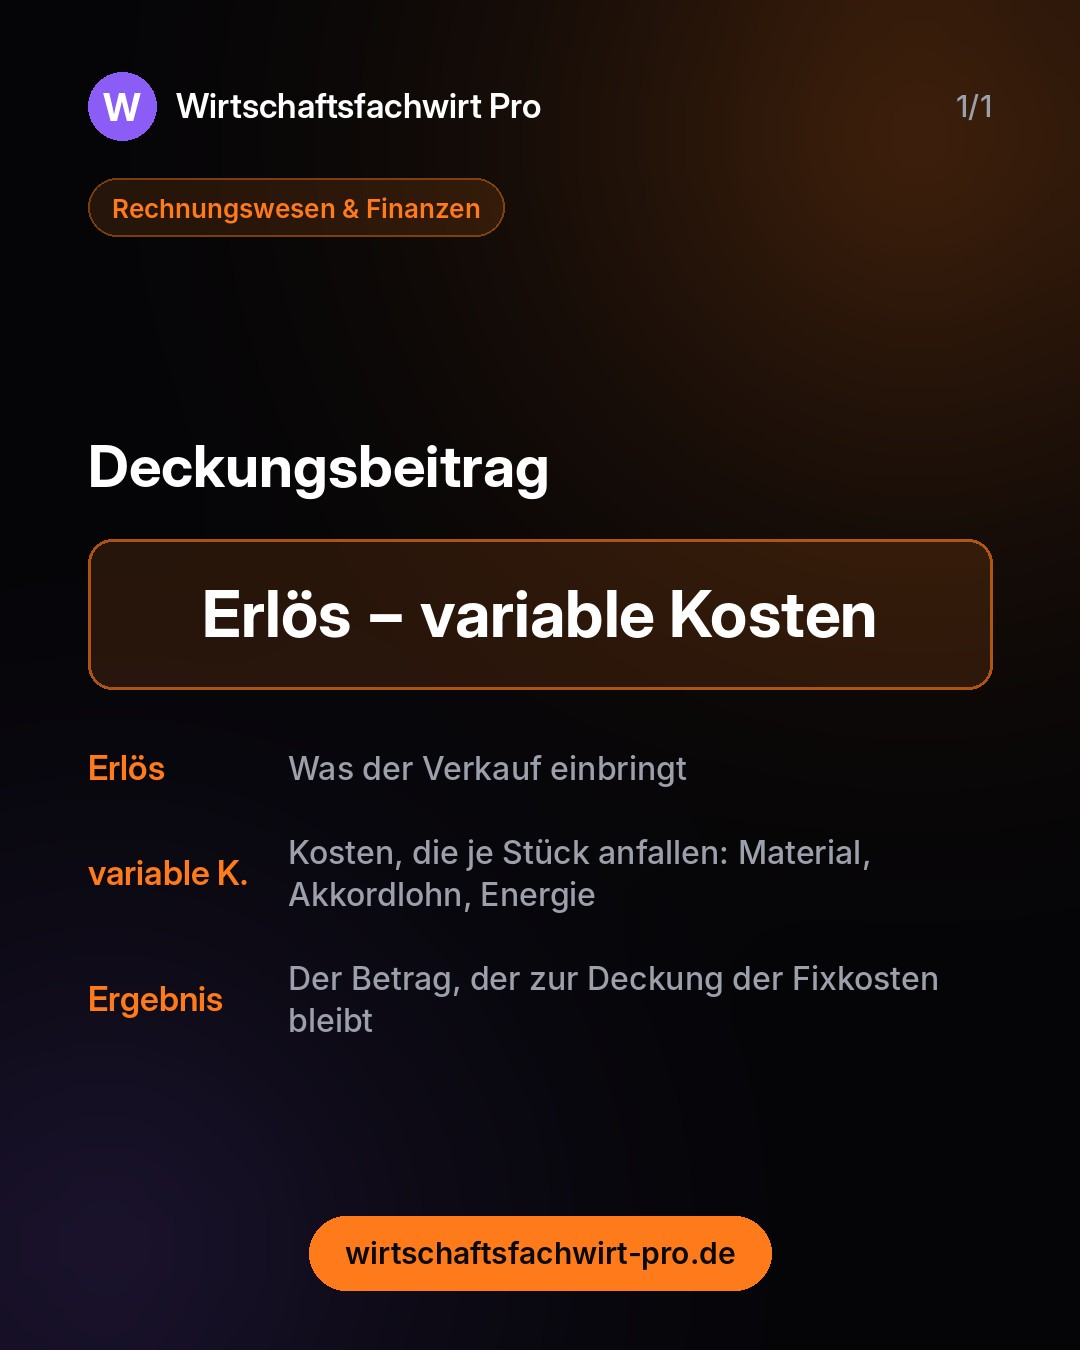
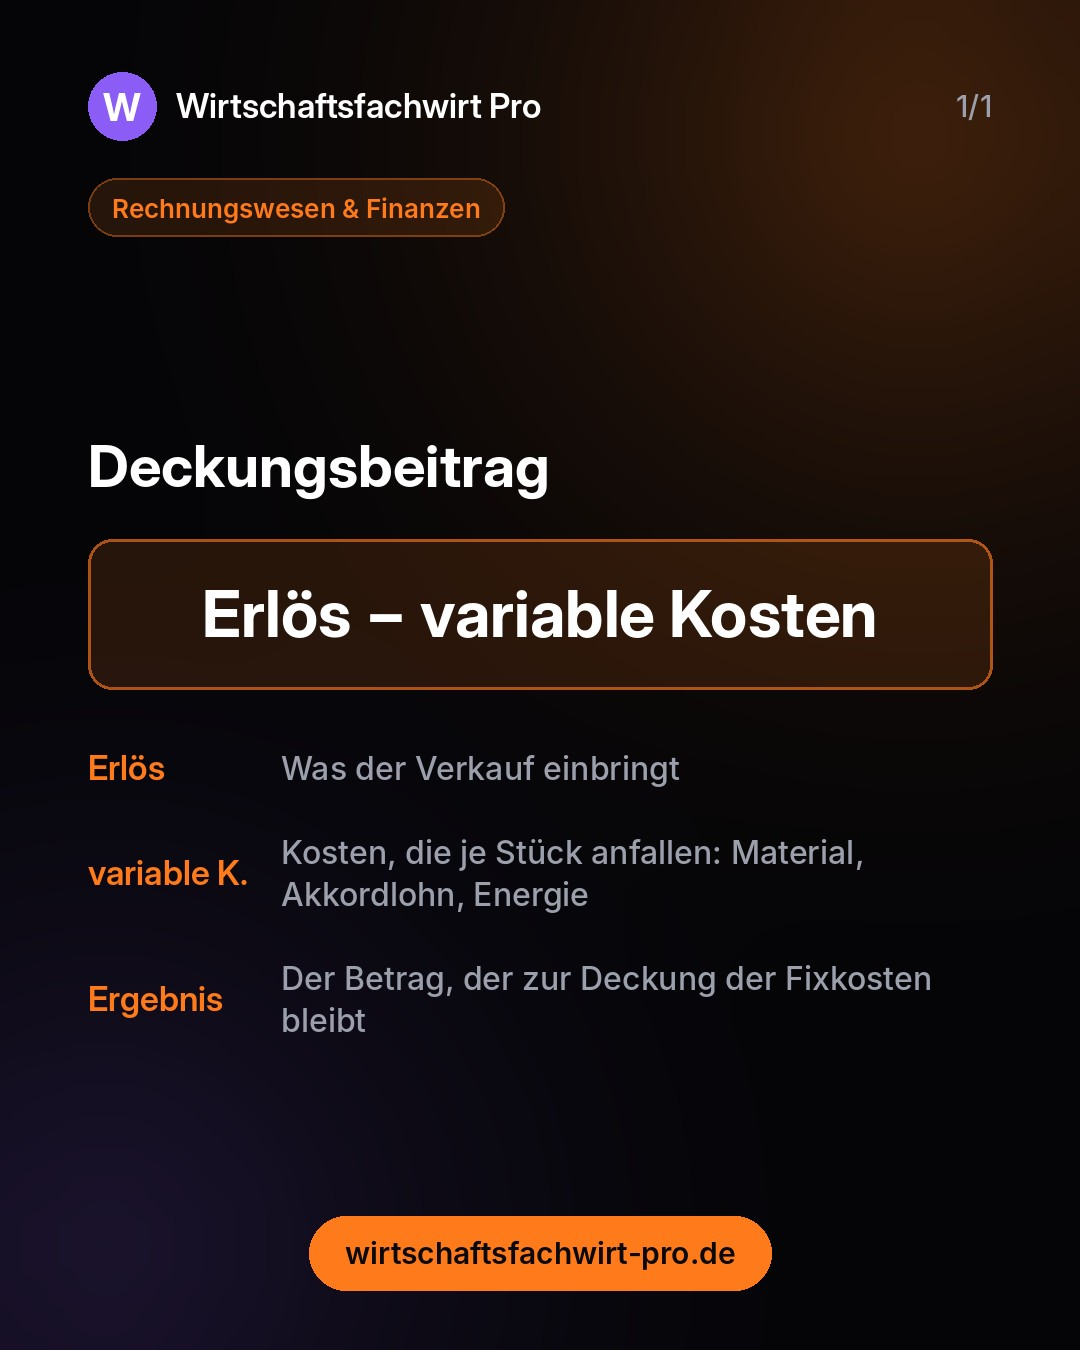
Formelkarten: Label-Spalte passt sich dem laengsten Label an

Changed region(s): [[0.2444, 0.6222, 0.7944, 0.6844], [0.2444, 0.7156, 0.8861, 0.7778], [0.2444, 0.56, 0.6417, 0.5911]]

diff --git a/cards.py b/cards.py
@@ -59,7 +59,19 @@ def slide_formel(brand, p, page, pages):
     d = ImageDraw.Draw(img)
     txt, dim, acc = hex2rgb(brand["text"]), hex2rgb(brand["text_dim"]), hex2rgb(brand["accent"])
     rf = font("Inter-Medium", 32)
-    rows_h = sum(max(70, len(wrap(d, r["text"], rf, CW - 240)) * 42 + 28) + 14 for r in p["teile"])
+
+    # Label-Spalte richtet sich nach dem laengsten Label, statt fest zu sein.
+    # Vorher lief "Kapitalumschlag" in den Erklaerungstext hinein.
+    size = 34
+    lf = font("InterDisplay-SemiBold", size)
+    widest = lambda f: max(d.textlength(r["label"], font=f) for r in p["teile"])
+    while size > 24 and widest(lf) > CW * 0.40:
+        size -= 2
+        lf = font("InterDisplay-SemiBold", size)
+    colw = int(widest(lf)) + 34
+    textw = CW - colw
+
+    rows_h = sum(max(70, len(wrap(d, r["text"], rf, textw)) * 42 + 28) + 14 for r in p["teile"])
     block = _h_title(d, p["title"]) + 40 + 150 + 44 + rows_h
     y = TOP + max(0, (BOT - TOP - block) // 2)
     y = _title(d, img, p["title"], y, brand=brand)
@@ -69,13 +81,12 @@ def slide_formel(brand, p, page, pages):
     d.text((W / 2, y + 75), p["formel"], font=ff, fill=txt + (255,), anchor="mm")
     y += 194
     for r in p["teile"]:
-        rl = wrap(d, r["text"], rf, CW - 240)
+        rl = wrap(d, r["text"], rf, textw)
         bh = max(70, len(rl) * 42 + 28)
-        d.text((MX, y + bh / 2), r["label"], font=font("InterDisplay-SemiBold", 34),
-               fill=acc + (255,), anchor="lm")
+        d.text((MX, y + bh / 2), r["label"], font=lf, fill=acc + (255,), anchor="lm")
         ty = y + bh / 2 - (len(rl) - 1) * 21
         for ln in rl:
-            d.text((MX + 200, ty), ln, font=rf, fill=dim + (255,), anchor="lm")
+            d.text((MX + colw, ty), ln, font=rf, fill=dim + (255,), anchor="lm")
             ty += 42
         y += bh + 14
     footer(img, brand, brand["url"], highlight=True)
